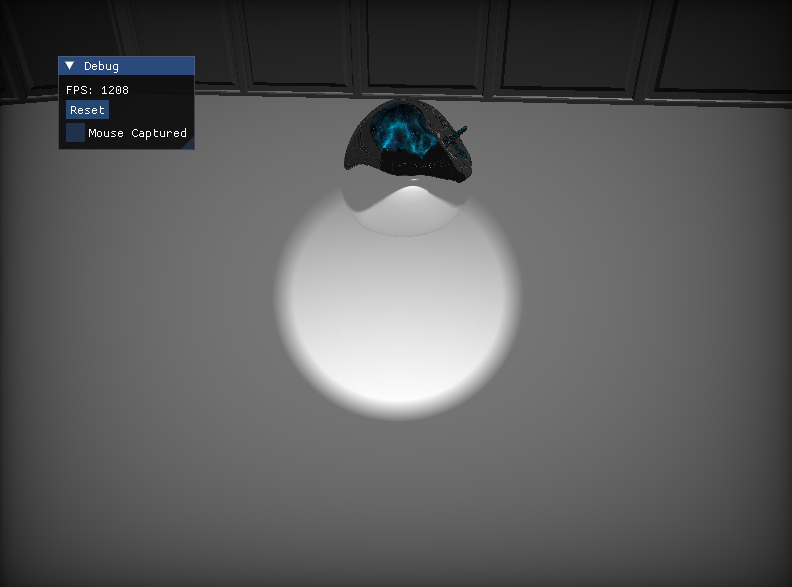
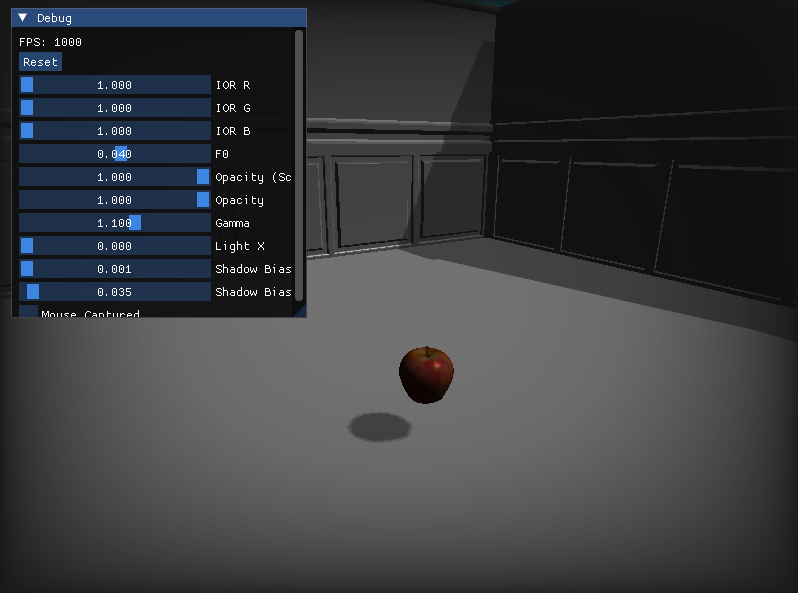
cleanup + Update README.md + sample.png

diff --git a/src/world/WorldObject.cpp b/src/world/WorldObject.cpp
@@ -9,15 +9,17 @@
 #include <glm/glm.hpp>
 #include <vector>
 
-syng::FrustumPlane::FrustumPlane(): normal(glm::vec3(0.0f, 1.0f, 0.0f)), distance(0.0f) {}
+using namespace syng;
 
-syng::FrustumPlane::FrustumPlane(const glm::vec3& point, const glm::vec3& normalVec) : normal(glm::normalize(normalVec)), distance(-glm::dot(normal, point)) {}
+FrustumPlane::FrustumPlane(): normal(glm::vec3(0.0f, 1.0f, 0.0f)), distance(0.0f) {}
 
-float syng::FrustumPlane::getSignedDistanceToPlane(const glm::vec3& point) const {
+FrustumPlane::FrustumPlane(const glm::vec3& point, const glm::vec3& normalVec) : normal(glm::normalize(normalVec)), distance(-glm::dot(normal, point)) {}
+
+float FrustumPlane::getSignedDistanceToPlane(const glm::vec3& point) const {
     return glm::dot(normal, point) + distance;
 }
 
-syng::AABB::AABB(std::vector<glm::vec3> positions) {        
+AABB::AABB(std::vector<glm::vec3> positions) {        
     glm::vec3 min = positions[0];
     glm::vec3 max = positions[0];
 
@@ -29,11 +31,11 @@ syng::AABB::AABB(std::vector<glm::vec3> positions) {
     extents = {max.x - center.x, max.y - center.y, max.z - center.z};
 }
 
-syng::AABB::AABB(const glm::vec3& min, const glm::vec3& max) : center{(max + min) * 0.5f}, extents{max.x - center.x, max.y - center.y, max.z - center.z} {}
+AABB::AABB(const glm::vec3& min, const glm::vec3& max) : center{(max + min) * 0.5f}, extents{max.x - center.x, max.y - center.y, max.z - center.z} {}
 
-syng::AABB::AABB(const glm::vec3& inCenter, float iI, float iJ, float iK) : center(inCenter), extents{iI, iJ, iK} {}
+AABB::AABB(const glm::vec3& inCenter, float iI, float iJ, float iK) : center(inCenter), extents{iI, iJ, iK} {}
 
-bool syng::AABB::isOnOrForwardPlane(const FrustumPlane& plane) const {
+bool AABB::isOnOrForwardPlane(const FrustumPlane& plane) const {
     const float r =
         extents.x * std::abs(plane.normal.x) +
         extents.y * std::abs(plane.normal.y) +
@@ -41,17 +43,17 @@ bool syng::AABB::isOnOrForwardPlane(const FrustumPlane& plane) const {
     return -r <= plane.getSignedDistanceToPlane(center);
 }
 
-syng::AABB syng::FrustumDiscardable::getBounding() {
+AABB FrustumDiscardable::getBounding() {
     return this->bounding;
 }
 
-syng::FrustumDiscardable::FrustumDiscardable(AABB bounding) : bounding(bounding) {}
+FrustumDiscardable::FrustumDiscardable(AABB bounding) : bounding(bounding) {}
 
-syng::FrustumDiscardable::FrustumDiscardable() : bounding(AABB(glm::vec3(1.0f), glm::vec3(1.0f))) {}
+FrustumDiscardable::FrustumDiscardable() : bounding(AABB(glm::vec3(1.0f), glm::vec3(1.0f))) {}
 
-syng::FrustumDiscardable::~FrustumDiscardable() = default;
+FrustumDiscardable::~FrustumDiscardable() = default;
 
-syng::Frustum syng::FrustumDiscardable::createFrustum(Scene_T snapshot) {
+Frustum FrustumDiscardable::createFrustum(Scene_T snapshot) {
     Frustum frustum;
 
     const float halfVSide = snapshot.zFar * tanf(snapshot.FOV * 0.5f);
@@ -68,11 +70,11 @@ syng::Frustum syng::FrustumDiscardable::createFrustum(Scene_T snapshot) {
     return frustum;
 }
 
-syng::Frustum syng::FrustumDiscardable::createFrustum(Scene* scene) {
+Frustum FrustumDiscardable::createFrustum(Scene* scene) {
     return createFrustum(scene->getSnapshot());
 }
 
-bool syng::FrustumDiscardable::isInFrustum(const Frustum& camFrustum, const glm::mat4& transform) {
+bool FrustumDiscardable::isInFrustum(const Frustum& camFrustum, const glm::mat4& transform) {
     const glm::vec3 globalCenter(transform * glm::vec4(bounding.center, 1.f));
 
     const glm::vec3 right = glm::normalize(glm::vec3(transform[0])) * bounding.extents.x;
@@ -101,28 +103,28 @@ bool syng::FrustumDiscardable::isInFrustum(const Frustum& camFrustum, const glm:
     );
 };
 
-bool syng::FrustumDiscardable::isInView(Scene_T snapshot, const glm::mat4& transform) {
+bool FrustumDiscardable::isInView(Scene_T snapshot, const glm::mat4& transform) {
     return isInFrustum(createFrustum(snapshot), transform);
 }
 
-bool syng::FrustumDiscardable::isInView(Scene* scene, const glm::mat4& transform) {
+bool FrustumDiscardable::isInView(Scene* scene, const glm::mat4& transform) {
     return isInFrustum(createFrustum(scene), transform);
 }
 
-bool syng::FrustumDiscardable::shouldDiscard(Scene_T snapshot, const glm::mat4& transform) {
+bool FrustumDiscardable::shouldDiscard(Scene_T snapshot, const glm::mat4& transform) {
     return !isInView(snapshot, transform);
 }
 
-bool syng::FrustumDiscardable::shouldDiscard(Scene* scene, const glm::mat4& transform) {
+bool FrustumDiscardable::shouldDiscard(Scene* scene, const glm::mat4& transform) {
     return !isInView(scene, transform);
 }
 
-syng::WorldObject::WorldObject(World *initialWorld) : world(initialWorld) {}
+WorldObject::WorldObject(World *initialWorld) : world(initialWorld) {}
 
-void syng::WorldObject::setWorld(World *world) {
+void WorldObject::setWorld(World *world) {
     this->world = world; 
 }
 
-syng::World* syng::WorldObject::getWorld() const { 
+World* WorldObject::getWorld() const { 
     return world;
 }

diff --git a/src/world/World.cpp b/src/world/World.cpp
@@ -7,7 +7,9 @@
 #include <BulletDynamics/ConstraintSolver/btSequentialImpulseConstraintSolver.h>
 #include <BulletDynamics/Dynamics/btDiscreteDynamicsWorld.h>
 
-void syng::BT_World::create(unsigned int id, std::string name, glm::vec3 gravity) {
+using namespace syng;
+
+void BT_World::create(unsigned int id, std::string name, glm::vec3 gravity) {
     if (this->dynamicsWorld) return;
 
     this->id = id;
@@ -27,19 +29,19 @@ void syng::BT_World::create(unsigned int id, std::string name, glm::vec3 gravity
         solver,
         collisionConfiguration
     );
-    dynamicsWorld->setGravity(syng::GameUtils::toBulletVector(gravity));
+    dynamicsWorld->setGravity(GameUtils::toBulletVector(gravity));
 }
 
-syng::BT_World::BT_World(unsigned int id, std::string name, glm::vec3 gravity) {
+BT_World::BT_World(unsigned int id, std::string name, glm::vec3 gravity) {
     create(id, name, gravity);
 }
 
-void syng::BT_World::render(GameWindow* window) {
+void BT_World::render(GameWindow* window) {
     if (!paused) {
         dynamicsWorld->stepSimulation(window->getLastFrameTime());
     }
 }
 
-btDynamicsWorld* syng::BT_World::getDynamics() {
+btDynamicsWorld* BT_World::getDynamics() {
     return this->dynamicsWorld;
 }

diff --git a/src/world/World.hpp b/src/world/World.hpp
@@ -10,7 +10,6 @@
 
 namespace syng
 {
-
 class World : public WindowRenderable {
 protected:
     unsigned int id;
@@ -40,7 +39,5 @@ public:
 
     btDynamicsWorld* getDynamics();
 };
-
 // TODO: add PhysX world + Entities
-
 }

diff --git a/README.md b/README.md
@@ -6,28 +6,12 @@ Syntra Engine is a lightweight, User Friendly, Beta (Work in progress) 3D game e
 
 Goals:
 
-- ~~Cross-Platform~~
-- ~~Lightweight,~~ Optimized
-- ~~Frustum Culling, Dynamic environment Mapping + Fresnel's Law~~ (along with other community development ideas within learnopengl itself & engines such as Source 2, etc.)
-- ~~Simple & Easy to Use in Code~~ (IN PROGRESS)
-- Normal Mapping (as well as other chapters <https://www.learnopengl.com> 29.1+)
-- 3D/2D Audio Support (Sydio Project + OpenAL)
-- GLTF + Bones & Rigid Animation Support
-- Graphical Interface
-  - QT + Window/Frames Management
-- Physics
-  - ~~Bullet Support~~ (IN PROGRESS)
-    - PhysX Support
+- An Engine Built for my horror/shooter games, a very basic. TODO in sample/sample.cpp
 
 ## Manual Build
 
 **Required Libraries**
-Before building, ensure the following libraries are statically built and placed in the `libs/` folder for your platform (`.so`, `.dll`, `.a`):
-
-- **GLAD** (Included as `glad.c`)
-- **GLFW-3** v3.4
-- **OpenGL** (Atleast v3.3) (Installed with Graphics drivers, eg. MESA) including glad.zip
-- **Assimp** v5.4.3 (Open Asset Import Library)
+Before building, ensure the following libraries are statically built and placed in the `libs/` folder for your platform (`.so`, `.dll`, `.a`)
 
 ### Mac OS
 
@@ -62,7 +46,7 @@ cmake .
 **2.** Ensure all of (clang ninja cmake) packages are installed:
 
 ```bash
-# Update MSYS2 package database and core system packages first
+# Update MSYS2 package database and core system packages first (using mingw environment)
 pacman -Syu
 pacman -S mingw-w64-x86_64-clang mingw-w64-x86_64-ninja mingw-w64-x86_64-cmake
 
